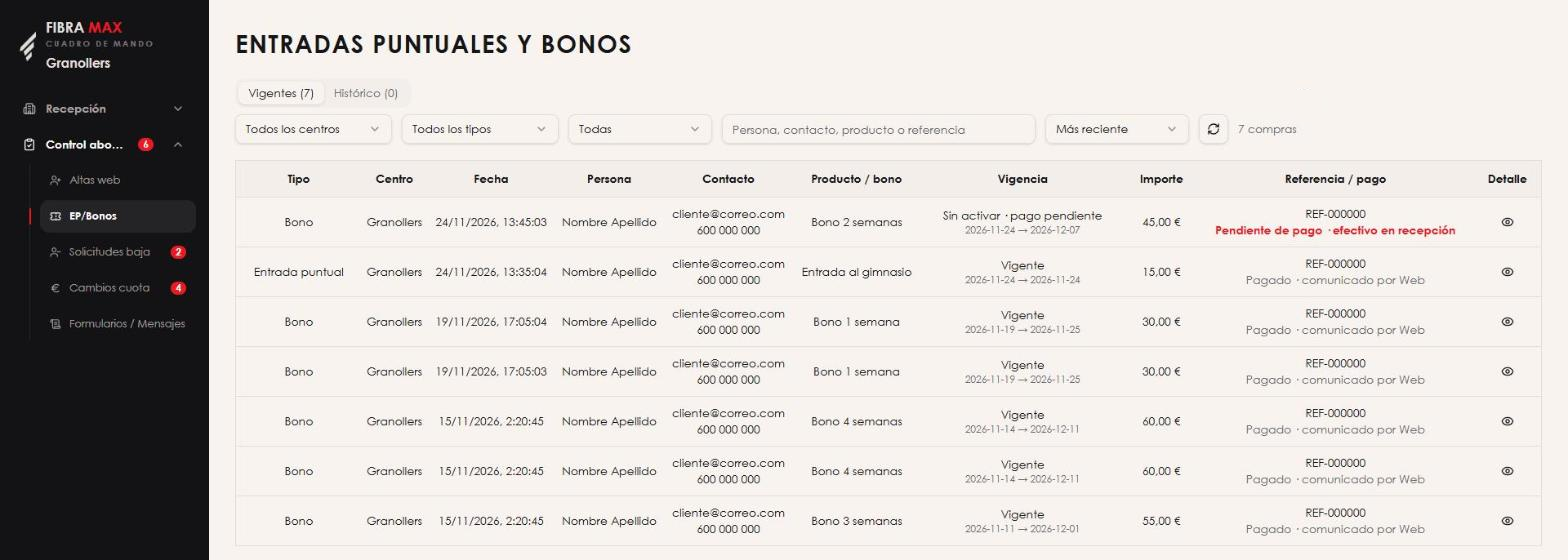
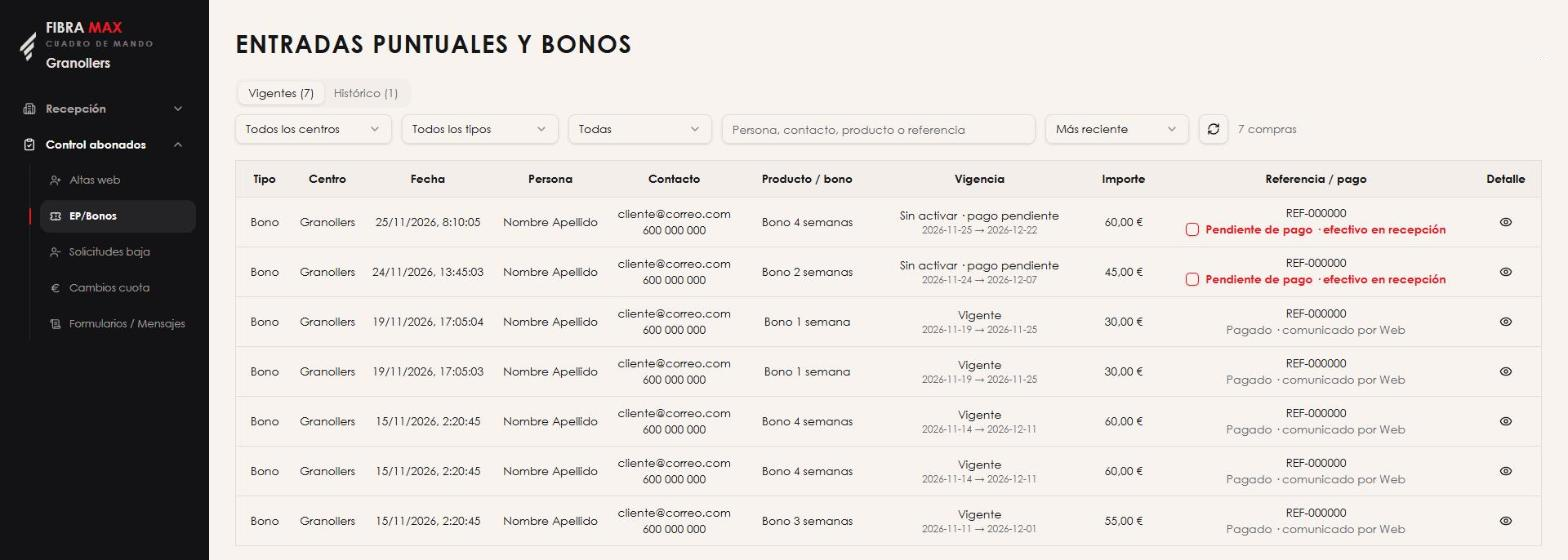
Novedades flotantes (Revolut), renovaciones pasado el 24, fuera cargos periodicos, capturas nuevas de Facturacion diaria y EP/Bonos con check de efectivo

diff --git a/src/styles.css b/src/styles.css
@@ -463,10 +463,40 @@ kbd {
   .price-card:not(.is-editing) .price-val { flex-direction: row; gap: 8px; align-items: baseline; }
 }
 
+/* ---------- Novedades (botón flotante) ---------- */
+.novedades { position: fixed; right: 20px; bottom: 20px; z-index: 90; display: flex; flex-direction: column; align-items: flex-end; gap: 10px; }
+.novedades__btn {
+  display: inline-flex; align-items: center; gap: 8px; padding: 10px 16px; border: 0; border-radius: 999px;
+  background: var(--side); color: #fff; font: inherit; font-weight: 700; font-size: 14px; cursor: pointer;
+  box-shadow: 0 8px 24px rgba(0, 0, 0, .25);
+}
+.novedades__btn.has-unread { background: var(--red); animation: novedades-pulse 2s ease-in-out infinite; }
+.novedades__badge {
+  display: grid; place-items: center; min-width: 22px; height: 22px; padding: 0 6px; border-radius: 999px;
+  background: #fff; color: var(--red); font-size: 12px; font-weight: 800;
+}
+@keyframes novedades-pulse { 0%, 100% { box-shadow: 0 8px 24px rgba(0,0,0,.25), 0 0 0 0 rgba(220, 38, 38, .45); } 50% { box-shadow: 0 8px 24px rgba(0,0,0,.25), 0 0 0 10px rgba(220, 38, 38, 0); } }
+.novedades__panel {
+  width: min(380px, calc(100vw - 40px)); max-height: min(70vh, 560px); display: flex; flex-direction: column;
+  background: var(--card); border: 1px solid var(--line); border-radius: var(--radius); box-shadow: 0 16px 40px rgba(0, 0, 0, .22); overflow: hidden;
+}
+.novedades__head {
+  display: flex; align-items: center; justify-content: space-between; padding: 10px 10px 10px 16px;
+  background: var(--side); color: #fff; font-weight: 700;
+}
+.novedades__head span { display: inline-flex; align-items: center; gap: 8px; }
+.novedades__head .icon-btn { color: #fff; }
+.novedades__list { overflow-y: auto; padding: 4px 16px 12px; }
+.novedades__item { padding: 12px 0; border-bottom: 1px solid var(--line-2); }
+.novedades__item:last-child { border-bottom: 0; }
+.novedades__date { margin: 0; font-size: 11px; font-weight: 700; letter-spacing: .08em; color: var(--muted); }
+.novedades__title { margin: 2px 0 6px; font-weight: 700; }
+@media (max-width: 600px) { .novedades { right: 12px; bottom: 12px; } }
+
 /* ---------- Impresión / PDF ---------- */
 @media print {
   body { background: #fff; font-size: 12px; }
-  .sidebar, .topbar, .edit-banner, .alert, .index-grid, .stats, .foot, [data-search-skip].add-block { display: none !important; }
+  .novedades, .sidebar, .topbar, .edit-banner, .alert, .index-grid, .stats, .foot, [data-search-skip].add-block { display: none !important; }
   .main { margin: 0; }
   .content { max-width: none; padding: 0; }
   .chapter { box-shadow: none; break-before: page; border: 0; }

diff --git a/src/components/Novedades.tsx b/src/components/Novedades.tsx
@@ -1,0 +1,74 @@
+import { Megaphone, X } from 'lucide-react'
+import { useEffect, useMemo, useState } from 'react'
+import type { Novedad } from '../types'
+import { Markdown } from './Markdown'
+
+const KEY = 'fm-novedades-vistas'
+
+function readSeen(): Set<string> {
+  try {
+    return new Set(JSON.parse(localStorage.getItem(KEY) || '[]') as string[])
+  } catch {
+    return new Set()
+  }
+}
+
+function saveSeen(ids: string[]) {
+  try {
+    localStorage.setItem(KEY, JSON.stringify(ids))
+  } catch {
+    /* sin almacenamiento: simplemente se volverán a marcar como nuevas */
+  }
+}
+
+const fmt = (iso: string) => {
+  const [y, m, d] = iso.split('-')
+  return d && m && y ? `${d}/${m}/${y}` : iso
+}
+
+/** Botón flotante siempre visible con los avisos para recepción. Marca cuántos no se han leído. */
+export function Novedades({ items }: { items: Novedad[] }) {
+  const sorted = useMemo(() => [...items].sort((a, b) => b.date.localeCompare(a.date)), [items])
+  const [seen, setSeen] = useState<Set<string>>(readSeen)
+  const [open, setOpen] = useState(false)
+  const unread = sorted.filter((n) => !seen.has(n.id)).length
+
+  useEffect(() => {
+    if (!open) return
+    const ids = sorted.map((n) => n.id)
+    saveSeen(ids)
+    setSeen(new Set(ids))
+    const onKey = (e: KeyboardEvent) => { if (e.key === 'Escape') setOpen(false) }
+    window.addEventListener('keydown', onKey)
+    return () => window.removeEventListener('keydown', onKey)
+  }, [open, sorted])
+
+  if (sorted.length === 0) return null
+
+  return (
+    <div className="novedades" data-search-skip>
+      {open && (
+        <div className="novedades__panel" role="dialog" aria-label="Novedades">
+          <div className="novedades__head">
+            <span><Megaphone size={16} /> Novedades</span>
+            <button className="icon-btn" onClick={() => setOpen(false)} aria-label="Cerrar novedades"><X size={18} /></button>
+          </div>
+          <div className="novedades__list">
+            {sorted.map((n) => (
+              <article key={n.id} className="novedades__item">
+                <p className="novedades__date">{fmt(n.date)}</p>
+                <p className="novedades__title">{n.title}</p>
+                <Markdown md={n.md} />
+              </article>
+            ))}
+          </div>
+        </div>
+      )}
+      <button className={`novedades__btn ${unread ? 'has-unread' : ''}`} onClick={() => setOpen((v) => !v)} aria-expanded={open}>
+        <Megaphone size={18} />
+        <span>Novedades</span>
+        {unread > 0 && <span className="novedades__badge">{unread}</span>}
+      </button>
+    </div>
+  )
+}

diff --git a/src/App.tsx b/src/App.tsx
@@ -1,9 +1,11 @@
 import { Download, Menu, Plus, Printer, RotateCcw, Upload } from 'lucide-react'
 import { useEffect, useMemo, useRef, useState } from 'react'
+import { Novedades } from './components/Novedades'
 import { SearchBar } from './components/SearchBar'
 import { SectionView } from './components/SectionView'
 import { Sidebar } from './components/Sidebar'
 import { numbering, useApuntes } from './store'
+import seed from './content/apuntes.json'
 import type { Apuntes, Section } from './types'
 
 const flatten = (list: Section[]): Section[] => list.flatMap((s) => [s, ...flatten(s.children)])
@@ -137,6 +139,8 @@ export default function App() {
           <footer className="foot" data-search-skip>Fibra Max · Apuntes internos de recepción</footer>
         </main>
       </div>
+      {/* Las novedades salen siempre de la versión publicada, aunque haya cambios locales. */}
+      <Novedades items={(seed as Apuntes).novedades ?? []} />
     </div>
   )
 }

diff --git a/src/types.ts b/src/types.ts
@@ -67,9 +67,19 @@ export interface PriceTable {
   updatedAt?: string
 }
 
+/** Aviso corto para recepción (aparece en el botón flotante «Novedades»). */
+export interface Novedad {
+  id: string
+  /** Fecha ISO (AAAA-MM-DD). */
+  date: string
+  title: string
+  md: string
+}
+
 export interface Apuntes {
   version: number
   title: string
   sections: Section[]
   priceTables: PriceTable[]
+  novedades?: Novedad[]
 }
